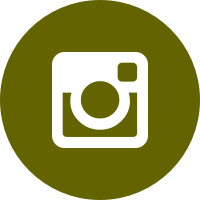
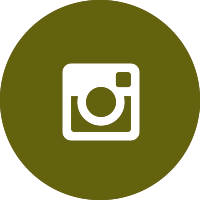
added instagram

diff --git a/wp-content/themes/wordpress-bootstrap/library/less/samgreen.less b/wp-content/themes/wordpress-bootstrap/library/less/samgreen.less
@@ -12,55 +12,10 @@
 		font-stretch: normal;
 		}
 
-    // FONTS
-    // --------------------------------------------------
-
-    .futuraLight {
-      font-family: "futura-pt",sans-serif;
-      font-style: normal;
-      font-weight: 300;
-    }
-    .futuraLightItalic {
-      font-family: "futura-pt",sans-serif;
-      font-style: italic;
-      font-weight: 300;
-    }
-    .futuraBook {
-      font-family: "futura-pt",sans-serif;
-      font-style: normal;
-      font-weight: 400;
-    }
-    .futuraMedium {
-      font-family: "futura-pt",sans-serif;
-      font-style: normal;
-      font-weight: 500;
-    }
-    .freightBook {
-      font-family: "freight-sans-pro",sans-serif;
-      font-style: normal;
-      font-weight: 400;
-    }
-    .freightBookItalic {
-      font-family: "freight-sans-pro",sans-serif;
-      font-style: italic;
-      font-weight: 400;
-    }
-    .freightSemibold {
-      font-family: "freight-sans-pro",sans-serif;
-      font-style: normal;
-      font-weight: 600;
-    }
-    .freightSemiboldItalic {
-      font-family: "freight-sans-pro",sans-serif;
-      font-style: italic;
-      font-weight: 600;
-    }
-
-
 
 body {
 	background-color: @tan;
-	font-family:@freightBook;
+	.freightBook();
 	font-size: 100%;
 	line-height: 1.125em;
 	color: @black;
@@ -75,7 +30,7 @@ body {
 	-webkit-transition: all 0.15s ease;
   	-moz-transition:    all 0.15s ease;
   	-ms-transition:     all 0.15s ease;
-  	-o-transition:      all 0.15s ease;
+  	-o-transition:      all 0.15s ease; 
 	transition: 		all 0.15s ease;
 }
 
@@ -199,7 +154,7 @@ body {
 				top: -182px;
 				right: 0;
 				float: right;
-				width: 100px;
+				width: 200px;
 				height: 40px;
 				z-index: 1;
 				.facebook {
@@ -208,6 +163,8 @@ body {
 					background-size: cover;
 					width: 40px;
 					height: 40px;
+					margin-right: 20px;
+
 					float: right;
 					&:hover {
 						background-image: url("/wp-content/themes/wordpress-bootstrap/images/facebook-hover.png");
@@ -225,18 +182,30 @@ body {
 						background-image: url("/wp-content/themes/wordpress-bootstrap/images/twitter-hover.png");
 					}
 				}
+
+				.instagram {
+					background-image: url("/wp-content/themes/wordpress-bootstrap/images/instagram.png");
+					display: inline-block;
+					background-size: cover;
+					width: 40px;
+					height: 40px;
+					float: right;
+					&:hover {
+						background-image: url("/wp-content/themes/wordpress-bootstrap/images/instagram-hover.png");
+					}
+				}
 				img {
 					width: 100%;
 					height: auto;
 				}
 			}
 			.headerContactInfo {
-				float: right;
-				padding: 0;
-				margin-top: -52px;
-				margin-right: 0px;
-				width: 998px;
-				text-align: right;
+				float: right; 
+				padding: 0; 
+				margin-top: -52px; 
+				margin-right: 0px; 
+				width: 998px; 
+				text-align: right; 
 			}
 		}
 	}
@@ -608,3 +577,6 @@ article header img {
 body.page div.container-fluid div.regularPage div#main.span8 article {
 	border: none;
 }
+
+
+
